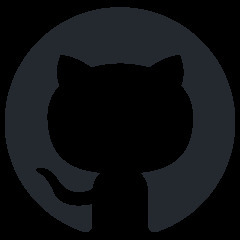
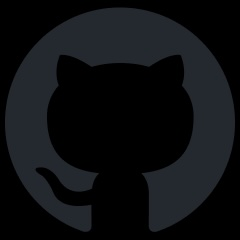
whoops, png -> jpg

diff --git a/people/index.html b/people/index.html
@@ -29,25 +29,25 @@ Ph.D., University of Tennessee <br>
 
 <br>
 
-<img src="../images/github-mark.png" alt="Darius Agollari" style="width:30%">
+<img src="../images/github-mark.jpg" alt="Darius Agollari" style="width:30%">
 Darius Agollari <br>
 Graduate Student <br>
 
 <br>
 
-<img src="../images/github-mark.png" alt="James Leone" style="width:30%">
+<img src="../images/github-mark.jpg" alt="James Leone" style="width:30%">
 James Leone <br>
 Graduate Student <br>
 
 <br>
 
-<img src="../images/github-mark.png" alt="Denethi Heenpellage Dona" style="width:30%">
+<img src="../images/github-mark.jpg" alt="Denethi Heenpellage Dona" style="width:30%">
 Denethi Heenpellage Dona <br>
 Graduate Student <br>
 
 <br>
 
-<img src="../images/github-mark.png" alt="James Gray" style="width:30%">
+<img src="../images/github-mark.jpg" alt="James Gray" style="width:30%">
 James Gray <br>
 Undergraduate Student <br>
 
